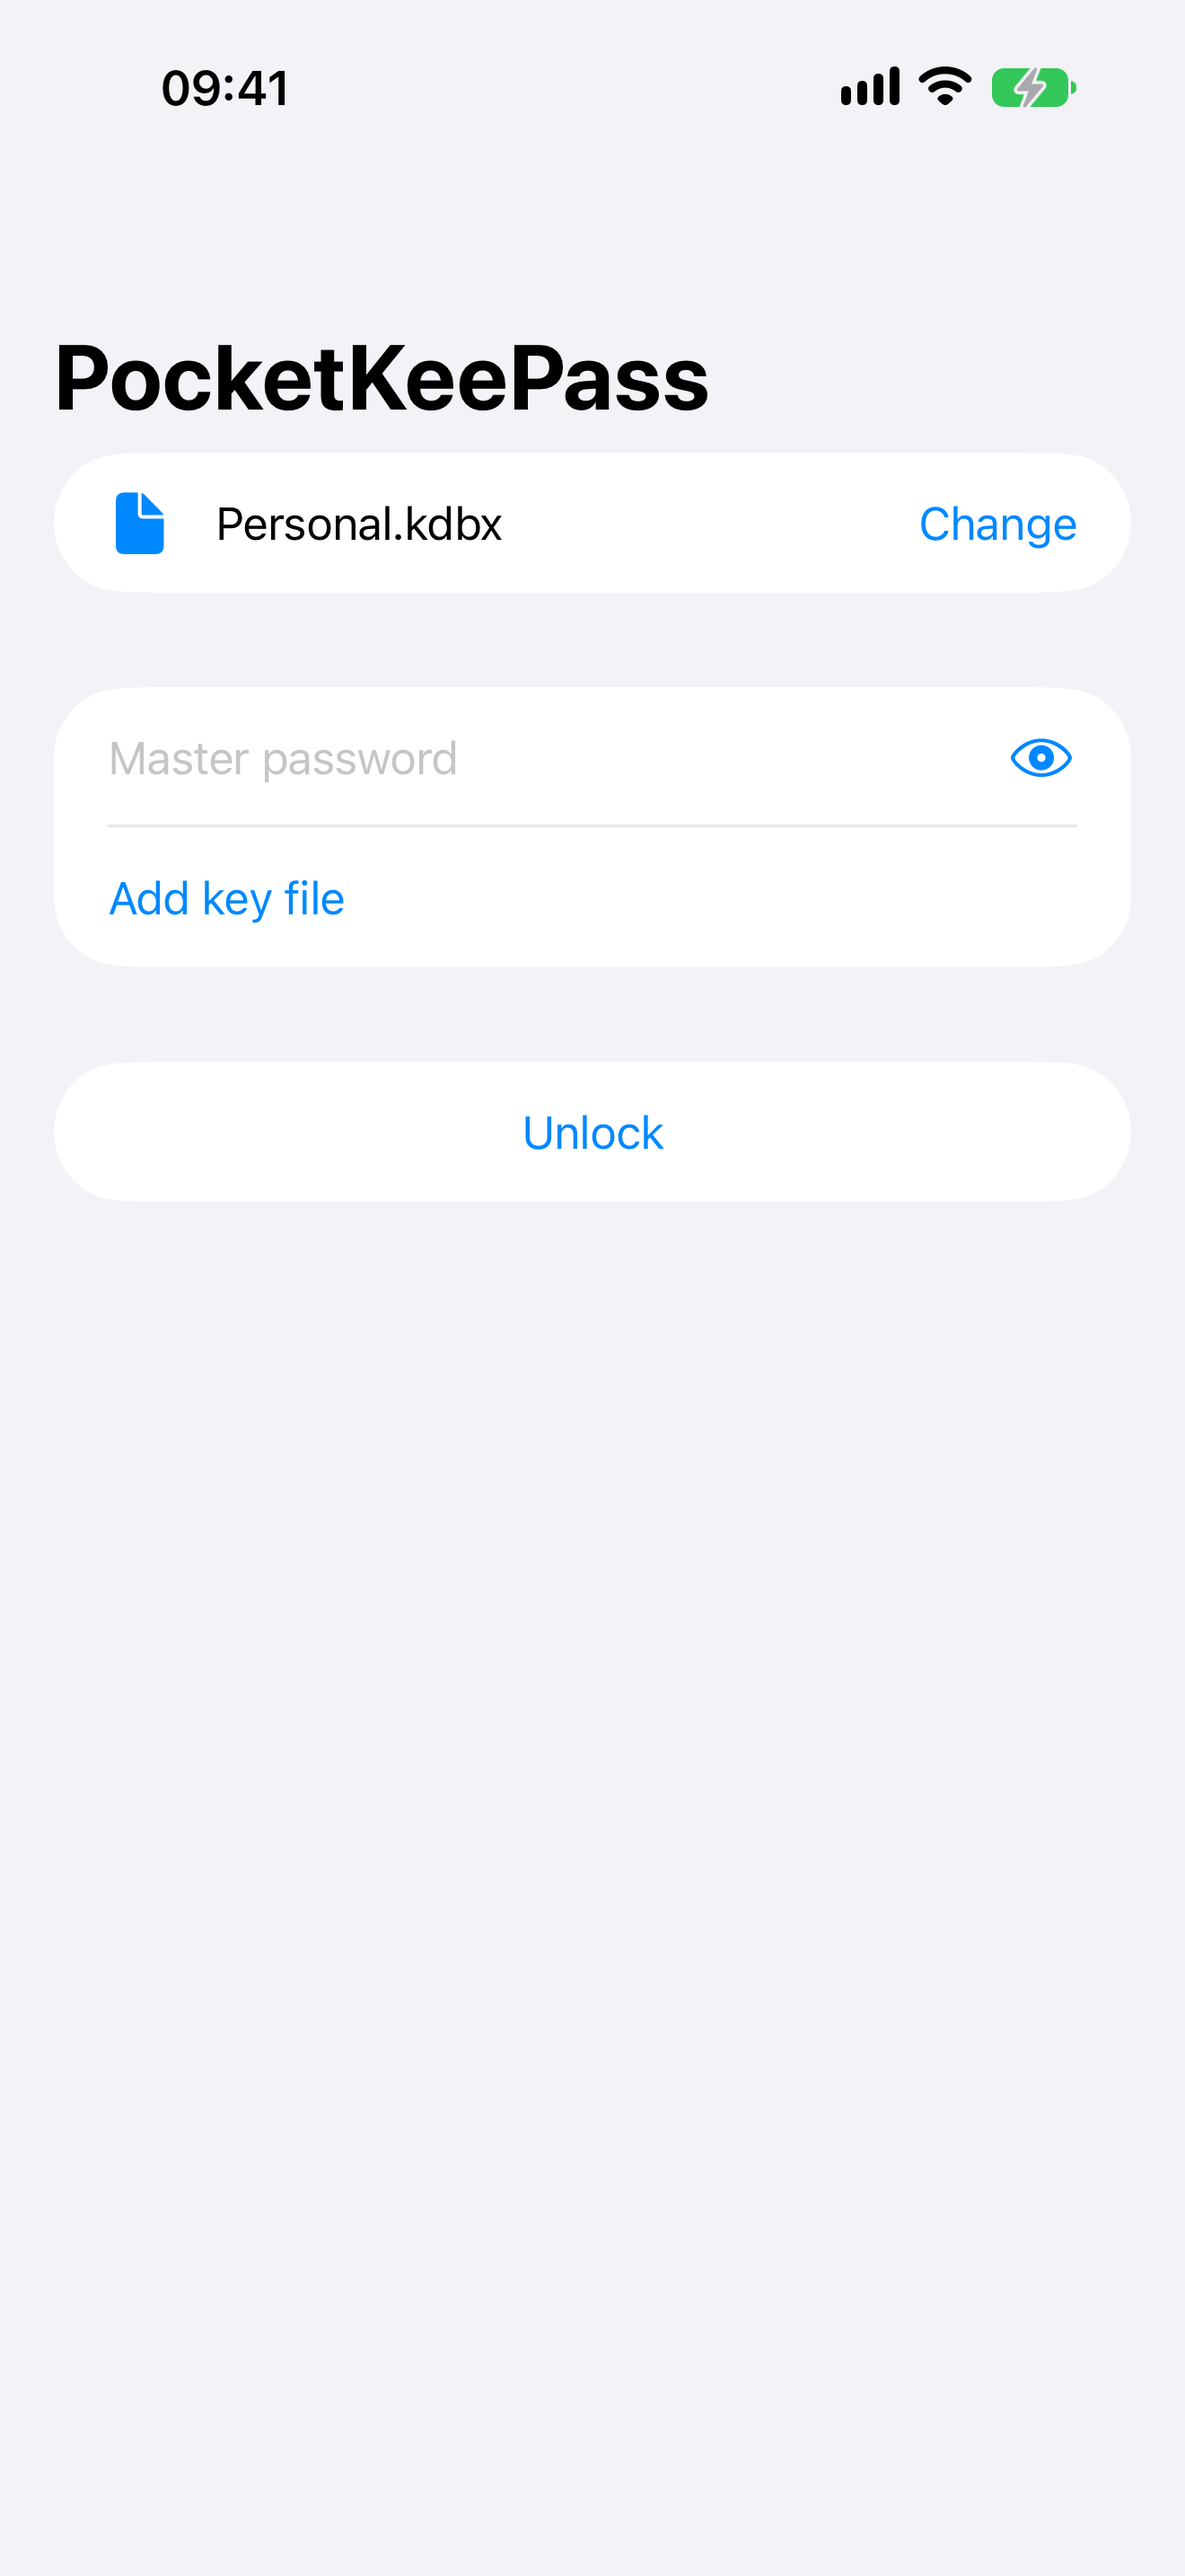
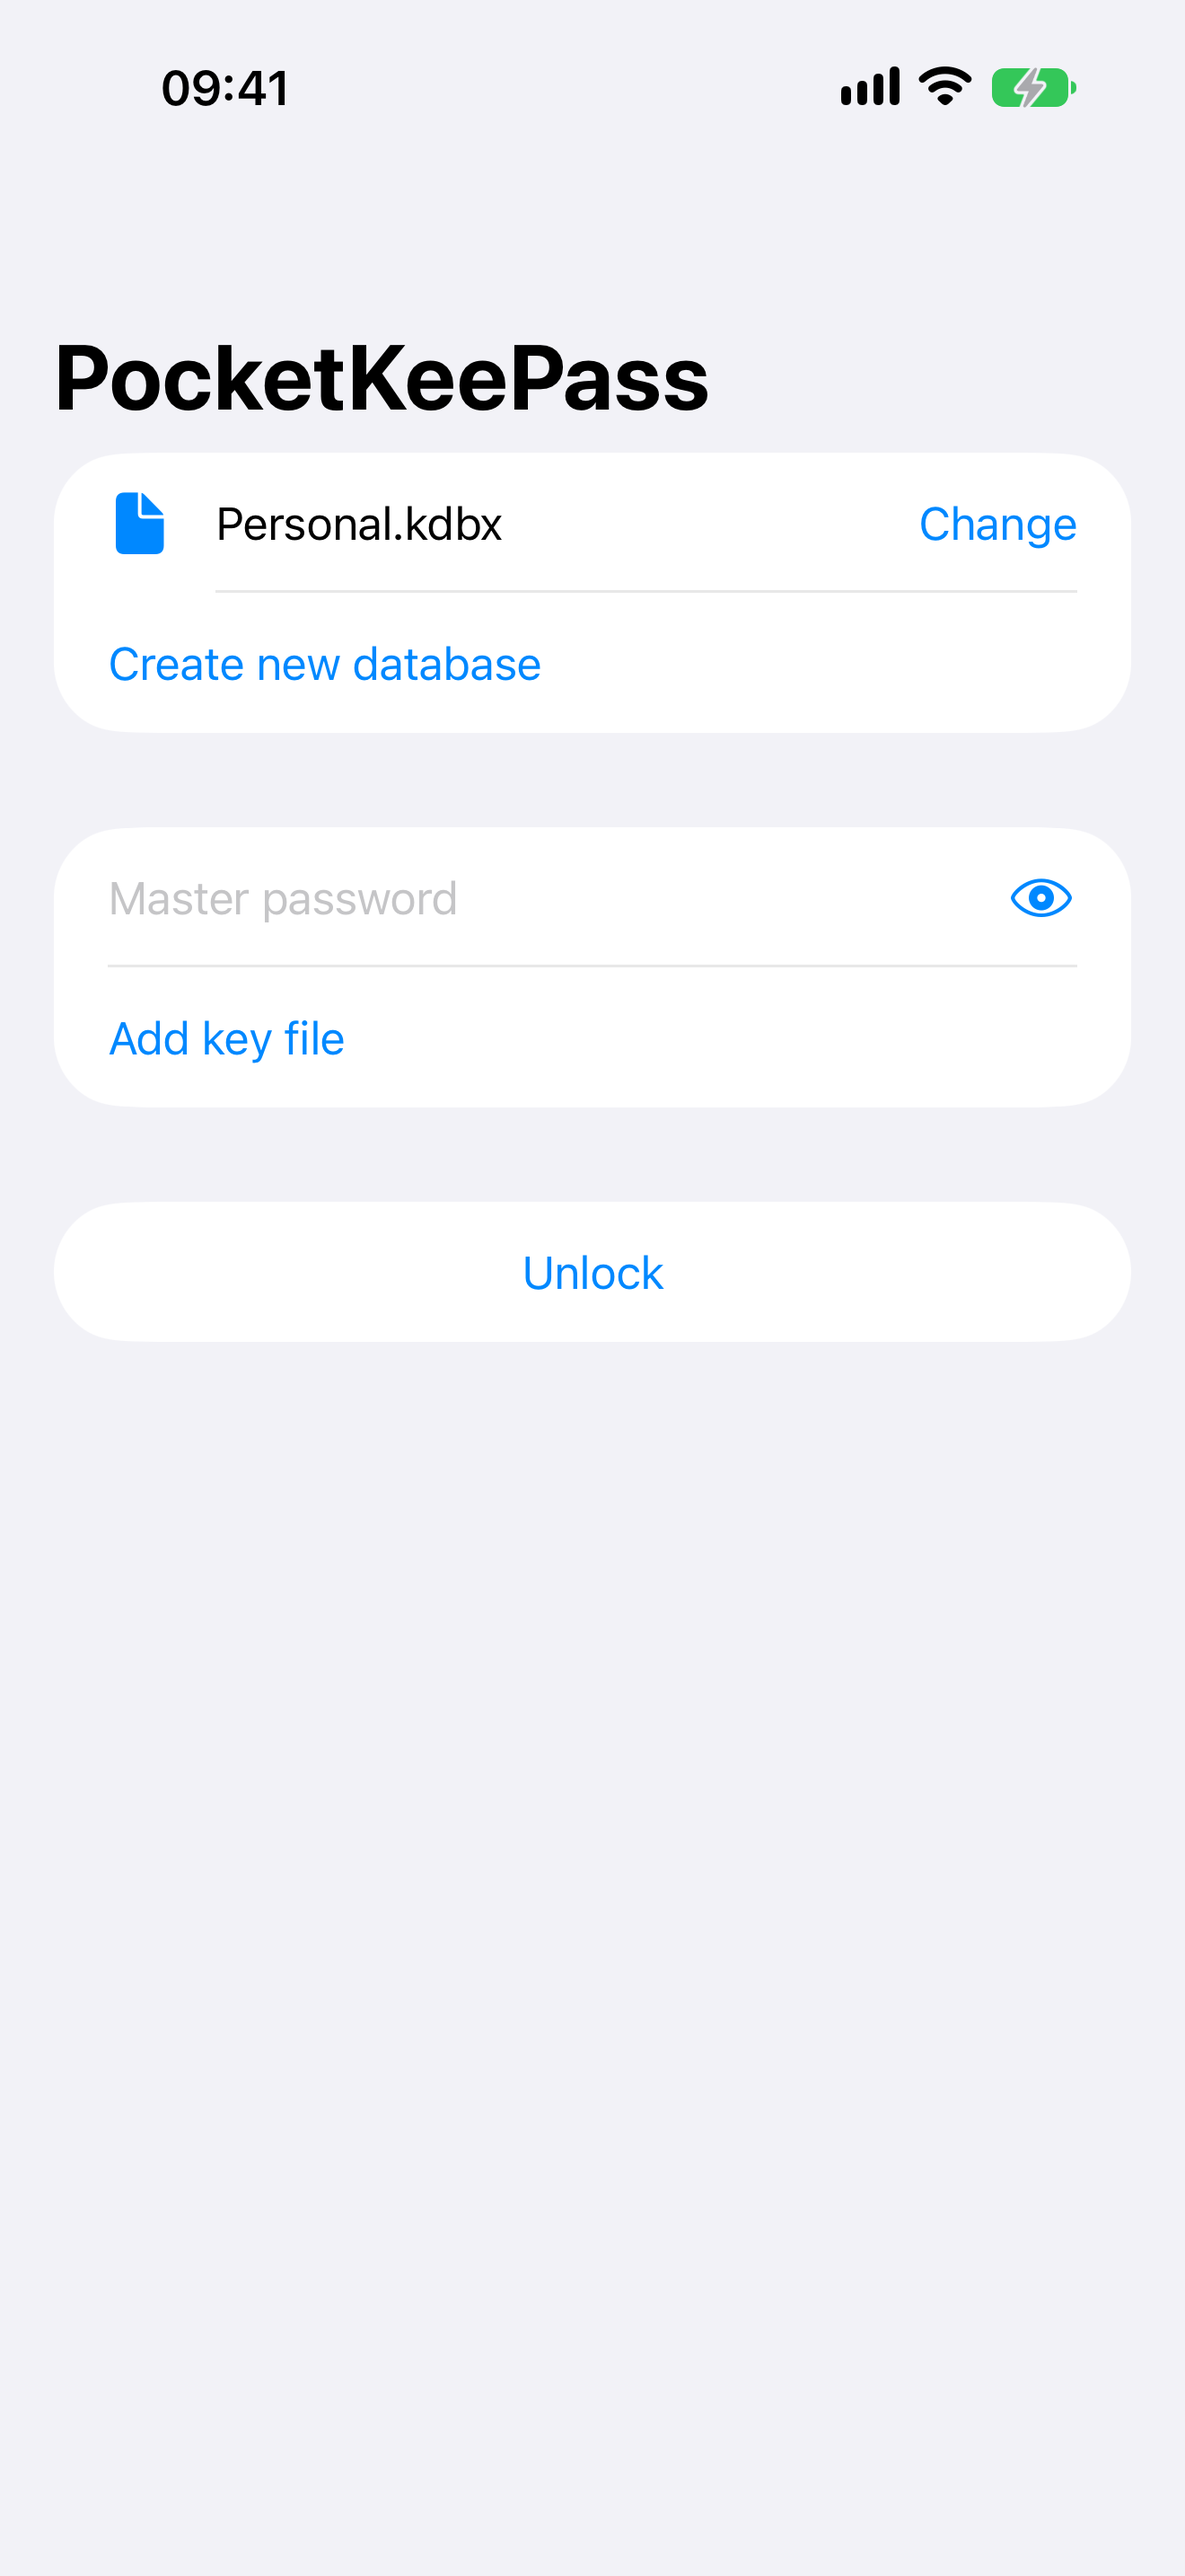
iOS: iPhone only and version 1.0 for the first release; new screenshots; listing
iPads run it in iPhone mode until it has layouts of its own. Version 1.0
matches the version App Store Connect created. The screenshots show the
unlock screen's new button; the listing mentions passkeys and new databases.

diff --git a/CLAUDE.md b/CLAUDE.md
@@ -376,7 +376,7 @@ To try the app without a phone, there is an emulator: `~/Library/Android/sdk/emu
 - [ ] iOS: the master password field gets iOS's own "Passwords" AutoFill bar, so iCloud Keychain or another password manager could be offered the master password. Android hides the field from other autofill services; on iOS no API turns this off for a secure field. Look for a way, or explain it
 - [ ] iOS: screenshots can't be blocked (no `FLAG_SECURE`). The app covers itself in the app switcher and while recording or mirroring, but a screenshot of a shown password is possible
 - [ ] iOS: the decrypted database stays in memory while the app is suspended in the background, until it returns and the deadline is checked (iOS gives only a few seconds of background time). Android's alarm wakes the app to lock; iOS has no equivalent. Consider locking on entering the background when the timeout is longer than the background time iOS grants
-- [ ] iOS release: build 105 is in App Store Connect. Before App Store review: the encryption questions and documentation (below), iPad (the layout is the iPhone's stretched, some text says "iPhone"; either make it fit or ship iPhone-only with `TARGETED_DEVICE_FAMILY = 1`, which runs on iPad in iPhone mode and needs no iPad screenshots), the website's privacy policy, the version (App Store Connect made "1.0"; the build says 0.1, Android is 0.2.0), China mainland (kept, with "No" to both of its questions) or not, and the accessibility answers (left "No" until checked in the simulator: VoiceOver, Voice Control, larger text, dark mode, contrast, reduced motion)
+- [ ] iOS release: iPhone only for the first release (`TARGETED_DEVICE_FAMILY = 1`, 2026-11-23; iPads run it in iPhone mode), version 1.0 (App Store Connect's own first version). Before App Store review: the encryption documentation (below), and France left out under Pricing and Availability (the build's answers say it isn't distributed there). iPad support later: layouts that use the space, "iPad" in the text that says "iPhone", and 13-inch screenshots. Accessibility answers left "No" until checked in the simulator (VoiceOver, Voice Control, larger text, dark mode, contrast, reduced motion)
 - [ ] iOS export compliance (2026-11-23): `ITSAppUsesNonExemptEncryption` is left out of the Info.plist, so App Store Connect asks about each build (YES made the upload fail: it then wants the compliance code of approved documentation, `ITSEncryptionExportComplianceCode`; NO would be untrue). Once the documentation is approved, set YES with that code. App Store Connect's own rule settles it: documentation is needed for "standard encryption algorithms instead of, or in addition to, using or accessing the encryption within Apple's operating system", which is what the engine does (RustCrypto AES, ChaCha20, Twofish). Left for the owner: the US annual self-classification report (mass market, 5D992, 740.17(b)(1)), and for France either the encryption declaration (the document App Store Connect's "App Encryption Documentation" takes) or leaving France out. Google Play has no such step; the same US rule applies to the Android app
 - [ ] iOS App Store: iPhone screenshots are in `art/app-store/screenshots` (6.9-inch, taken by the `StoreScreenshots` UI test); iPad ones wait on the iPad decision above. The website's copy of `PRIVACY.md` (updated for iOS 2026-11-23; `lovelandsolutions-website` still has the Android-only version: copy and deploy, which goes straight to lls.mn). The listing is drafted in `art/app-store/listing.md`; no Mongolian (App Store Connect doesn't offer it)
 - [ ] More sample databases: files written by KeePass 2.x itself (Windows/.NET). KDBX 3.1, 4.0, and 4.1 are covered

diff --git a/art/app-store/listing.md b/art/app-store/listing.md
@@ -1,8 +1,8 @@
 # App Store listing (iPhone and iPad)
 
 What to enter in App Store Connect for PocketKeePass (`mn.lls.pocketkeepass`). Adapted from the
-Google Play listing, with only what the iOS app does today: no passkeys yet (they're shown, not
-used), and no screenshot blocking (iOS doesn't allow it). Keep it in step with the app.
+Google Play listing, with only what the iOS app does today: no screenshot blocking (iOS doesn't
+allow it). Keep it in step with the app.
 
 KeePass's author asks that "KeePass" never be a separate word in an app's name, so the name is
 only "PocketKeePass", and the subtitle doesn't start with "KeePass". Apple doesn't allow other
@@ -33,8 +33,8 @@ The privacy manifest (`apple/iOS/Shared/PrivacyInfo.xcprivacy`) says the same.
 
 ## Promotional text (170)
 
-Your KeePass passwords on iPhone and iPad: free, open source, and offline. Fills in passwords
-in Safari and apps, with Face ID.
+Your KeePass passwords on your iPhone: free, open source, and offline. Fills in passwords and
+passkeys in Safari and apps, with Face ID.
 
 ## Keywords (100)
 
@@ -55,6 +55,8 @@ WHAT IT DOES
 • Browse and search your groups and entries
 • Create, edit, duplicate, move, and delete entries and groups
 • Fill in passwords in Safari and other apps with AutoFill
+• Create and use passkeys
+• Create a new database, or open one you already have
 • Show one-time codes (TOTP) for two-factor sign-in
 • Generate passwords, including a symbols option that leaves out the characters many sites reject
 
@@ -103,4 +105,4 @@ with its `ITSEncryptionExportComplianceCode`; YES without a code fails the uploa
 
 `art/app-store/screenshots/6.3-inch-1-unlock.png` … `6.3-inch-6-settings.png` (1206 × 2622, for "iPhone with
 Dynamic Island, medium display"), and the same as `6.9-inch-*` (1320 × 2868), in that order: unlock, browse, an entry, the password generator, search, settings. How they're taken is in
-that folder's README. No iPad screenshots: see the open item on iPad in CLAUDE.md.
+that folder's README. The app is iPhone-only for now (iPads run it in iPhone mode), so no iPad screenshots are needed.
